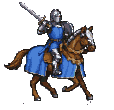
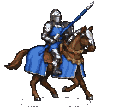
fix(battle): keep Knight attacks on their lance
Play the real horse gait and lance poses with one impact moment. Keep opponents outside the horse on return blows, retain gentle effects and Auto, and leave combat outcomes and saves unchanged.

Copilot-Session: 379f362c-03f1-437f-a3ee-fb0a8ab1f4c0

diff --git a/src/game/battle.ts b/src/game/battle.ts
@@ -12,6 +12,7 @@ import { BattleScreen, BUTTONS, FIRE_FALL, FLOAT_LIFE, FLOAT_RISE, hexAt, hexCen
 import { CUE_PING, cueBounce, FLASH_GAP, FLASH_TIME, FRAME, holdFrames, kickLeft, kickOf, POP_LIFE, ROLL, TOPPLE_TIME, toppleAngle, victoryHop, volleyOf, type Blow } from '../render/juice';
 import { hash } from '../render/noise';
 import { animLength, bodyHeight, hitTime, STAND, type AnimName } from '../render/battleSprites';
+import { paintedAnimation } from '../render/mapArt';
 import { cursorIcon, type CursorKind, type Heading } from '../render/cursors';
 import { ART, type Missile } from '../render/units';
 import { MAP_VIEW } from '../render/frame';
@@ -431,18 +432,18 @@ export class BattleController implements Screen {
   }
 
   /**
-   * What a blow or a shot sounds like as it lands: the attacker's weapon (a knight's charge is his
-   * lance), or the shot hitting home; what it lands on, flesh or the target's steel (#257); and its
+   * What a blow or a shot sounds like as it lands: the attacker's weapon, or the shot hitting
+   * home; what it lands on, flesh or the target's steel (#257); and its
    * cry, if it's hurt and still standing (one that falls gives its death cry as it goes).
    */
-  private landSound(e: Extract<BattleEvent, { type: 'hit' }>, missile: Missile | null, dies: boolean, x: number) {
+  private landSound(e: Extract<BattleEvent, { type: 'hit' }>, missile: Missile | null, dies: boolean, x: number, prepared = false) {
     const pan = this.panAt(x);
     const attacker = fighterById(this.battle, e.attacker);
     const target = TROOP_SOUNDS[fighterById(this.battle, e.target).troop];
     const blow = e.charge && ART[attacker.troop].charge ? 'lance' : TROOP_SOUNDS[attacker.troop].blow;
     if (missile) play(`land:${missile}`, pan);
-    else play(`blow:${blow}`, pan);
-    const lands = missile ? 0 : CONTACT;
+    else if (!prepared) play(`blow:${blow}`, pan);
+    const lands = missile || prepared ? 0 : CONTACT;
     // Weight under the blow, as heavy as what it did (#190).
     play(e.charge || dies ? 'thump:huge' : e.killed ? 'thump:heavy' : 'thump:light', pan, lands);
     const hit = missile ? SHOT_HITS[missile] : BLOW_HITS[blow];
@@ -666,14 +667,21 @@ export class BattleController implements Screen {
     const [ux, uy] = [(tx - ax) / len, (ty - ay) / len];
     const art = ART[attacker.troop];
     const anim = e.ranged ? 'ranged' : e.charge && art.charge ? 'charge' : 'melee';
-    const hit = hitTime(attacker.troop, anim);
-    const total = Math.max(animLength(attacker.troop, anim), hit + 1);
+    const knight = attacker.troop === 'knights';
+    const mounted = knight || target.troop === 'knights';
+    const painted = knight && !e.ranged && !!paintedAnimation(attacker.troop, 'battle', anim);
+    const contact = hitTime(attacker.troop, anim);
+    const soundLead = !e.ranged && mounted ? CONTACT / MS * this.pace * (this.auto ? 2.5 : 1) : 0;
+    // The charge's opening gait has already played on the approach. Finish the last stride into contact.
+    const begins = painted && e.charge ? Math.max(0, contact - Math.max(100, soundLead)) : 0;
+    const hit = contact - begins;
+    const total = Math.max(animLength(attacker.troop, anim) - begins, hit + 1);
     const after = Math.max(300, total - hit);
     // Lunge in: still at first, then hard to about half way at the blow, then back to its hex.
-    const reach = e.ranged ? 0 : Math.min(30, len * 0.45);
+    const reach = e.ranged || mounted ? 0 : Math.min(30, len * 0.45);
     const lunge = (ms: number) => (ms < hit ? reach * Math.max(0, (ms - hit * 0.4) / (hit * 0.6)) ** 2 : reach * Math.max(0, 1 - (ms - hit) / after));
     const swing = (ms: number) => {
-      v.poses.set(e.attacker, { anim, ms });
+      v.poses.set(e.attacker, { anim, ms: begins + ms });
       v.offsets.set(e.attacker, [ux * lunge(ms), uy * lunge(ms)]);
     };
     const flinch = (): AnimName => (e.ranged ? 'defendRanged' : 'defend');
@@ -688,6 +696,8 @@ export class BattleController implements Screen {
     // A company of archers or crossbowmen looses a volley, not one arrow (#190).
     const extra = missile === 'arrow' || missile === 'quarrel' ? volleyOf(attacker.count, isLeader(attacker)) - 1 : 0;
     const release = missile ? Math.max(0, hit - 150) : hit;
+    const leading = Math.min(release, soundLead);
+    const prepare = release - leading;
     // The ribbon names the blow as it starts, and says what it did when it lands.
     const blow = `${this.fighterName(e.attacker)} ${this.verb(e.attacker, e.ranged ? 'shoot' : e.retaliation ? 'strike back at' : e.charge ? 'charge' : 'hit')} ${this.objectName(e.target)}`;
     if (e.lucky) {
@@ -706,7 +716,7 @@ export class BattleController implements Screen {
         },
       });
     }
-    this.step(release * MS, {
+    this.step(prepare * MS, {
       start: () => {
         turn();
         v.log = `${blow}...`;
@@ -714,9 +724,13 @@ export class BattleController implements Screen {
         if (!e.ranged) v.front.set(e.target, e.attacker);
       },
       tick: (t) => {
-        swing(t * release);
-        if (!missile && t * release >= hit - FLINCH_EARLY) v.poses.set(e.target, { anim: flinch(), ms: 0 });
+        swing(t * prepare);
+        if (!missile && !mounted && t * prepare >= hit - FLINCH_EARLY) v.poses.set(e.target, { anim: flinch(), ms: 0 });
       },
+    });
+    if (leading) this.step(leading * MS, {
+      start: () => play(`blow:${e.charge ? 'lance' : TROOP_SOUNDS[attacker.troop].blow}`, this.panAt(ax)),
+      tick: (t) => swing(prepare + t * leading),
     });
     if (missile) {
       // The release frame holds while the shot flies, however far.
@@ -736,11 +750,11 @@ export class BattleController implements Screen {
         end: () => v.shots.splice(v.shots.indexOf(shot), 1),
       });
     }
-    const reel = (e.ranged ? 4 : 8) * (e.charge ? 2.2 : 1);
     // The blow lands, and the field holds still on it for a moment (#190): the target a white shape
     // for a frame, then red, the field kicked the way the blow went, and the kill popping out of the badge.
     const landed: Blow = { killed: e.killed, charge: e.charge, lucky: e.lucky, wiped: dies };
     const gentle = isGentle();
+    const reel = mounted ? (gentle ? 1.5 : e.charge ? 5 : 3) : (e.ranged ? 4 : 8) * (e.charge ? 2.2 : 1);
     const hold = holdFrames(landed, gentle) * FRAME;
     // The white shape shows for a frame at least, even when Auto hurries the hold along.
     let ticks = 0;
@@ -749,12 +763,12 @@ export class BattleController implements Screen {
         v[gentle ? 'flashing' : 'whites'].add(e.target);
         v.poses.set(e.target, { anim: flinch(), ms: 0 });
         this.counted(e.target, left);
-        this.landSound(e, missile, dies, tx);
-        if (dies) this.deathCry(e.target, (missile ? 0 : CONTACT) + 0.06);
+        this.landSound(e, missile, dies, tx, leading > 0);
+        if (dies) this.deathCry(e.target, (missile || leading ? 0 : CONTACT) + 0.06);
         this.impact(e.target, landed, !e.ranged, [ux, uy]);
         if (e.charge) {
           this.float(e.attacker, 'Charge!', GOLD[6], from);
-          play('charge');
+          if (!knight) play('charge');
         }
         if (e.lucky) this.float(e.attacker, 'Lucky!', GOLD[5], from);
         if (e.backstab) this.float(e.attacker, 'Backstab!', GOLD[6], from);
@@ -855,13 +869,16 @@ export class BattleController implements Screen {
           const feet = `feet:${TROOP_SOUNDS[f.troop].feet}` as const;
           // A charge's run-up (#190): dust flies from the hooves on every hex of it.
           const charging = !back && events.some((n) => n.type === 'hit' && n.charge && n.attacker === e.fighter);
+          const gait = f.troop === 'knights' ? paintedAnimation(f.troop, 'battle', charging ? 'charge' : 'move') : null;
+          const cycle = gait ? (charging ? hitTime(f.troop, 'charge') : animLength(f.troop, 'move')) : 0;
           for (const [n, to] of path.entries()) {
             const a = n === 0 ? start : path[n - 1];
             // A hex a step for a stack; a leader gallops, however far his first and last stretches are.
-            const length = leader ? Math.max(0.06, Math.hypot(to[0] - a[0], to[1] - a[1]) / 640) : 0.12;
+            const length = gait ? cycle * MS / 2 : leader ? Math.max(0.06, Math.hypot(to[0] - a[0], to[1] - a[1]) / 640) : 0.12;
             this.step(length, {
               start: () => {
                 if (n === 0 && !back) v.log = `${this.fighterName(e.fighter)} ${this.verb(e.fighter, leader ? 'ride out' : 'advance')}...`;
+                if (n === 0 && charging && f.troop === 'knights') play('charge');
                 if (to[0] !== a[0]) v.facings.set(e.fighter, to[0] > a[0] ? 1 : -1);
                 play(feet, this.panAt(to[0]));
                 if (charging) this.burst('dust', [Math.round(a[0]), Math.round(a[1]) + 12], 0.45, { size: 30 });
@@ -869,7 +886,7 @@ export class BattleController implements Screen {
               tick: (t) => {
                 const hop = frames ? 0 : Math.sin(t * Math.PI) * 4;
                 v.positions.set(e.fighter, [a[0] + (to[0] - a[0]) * t, a[1] + (to[1] - a[1]) * t - hop]);
-                v.poses.set(e.fighter, frames ? { anim: 'move', ms: (n + t) * 120 } : { anim: 'stand', ms: 0 });
+                v.poses.set(e.fighter, gait ? { anim: charging ? 'charge' : 'move', ms: ((n + t) * cycle / 2) % cycle } : frames ? { anim: 'move', ms: (n + t) * 120 } : STAND);
               },
             });
           }

diff --git a/src/render/mapPieces.ts b/src/render/mapPieces.ts
@@ -193,7 +193,7 @@ export type FigureAnimation = {
   stride?: number;
   footfalls?: readonly number[];
 };
-export const FIGURE_ANIMATIONS: Record<string, Partial<Record<import('./battleSprites').AnimName, FigureAnimation>>> = {"knights": {"stand": {"frames": [{"name": "knights-stand-0", "ms": 100}], "feet": {"battle": [54, 101], "map": [33, 60]}}, "idle": {"frames": [{"name": "knights-idle-0", "ms": 100}], "feet": {"battle": [54, 101], "map": [33, 60]}}, "move": {"frames": [{"name": "knights-move-0", "ms": 90}, {"name": "knights-move-1", "ms": 90}, {"name": "knights-move-2", "ms": 90}, {"name": "knights-move-3", "ms": 90}], "feet": {"battle": [54, 101], "map": [33, 60]}, "stride": 64, "footfalls": [0, 180]}, "melee": {"frames": [{"name": "knights-melee-0", "ms": 160}, {"name": "knights-melee-1", "ms": 110}, {"name": "knights-melee-2", "ms": 100}, {"name": "knights-melee-3", "ms": 200}], "feet": {"battle": [54, 101]}, "hit": 160}, "charge": {"frames": [{"name": "knights-charge-0", "ms": 80}, {"name": "knights-charge-1", "ms": 80}, {"name": "knights-charge-2", "ms": 80}, {"name": "knights-charge-3", "ms": 80}, {"name": "knights-charge-4", "ms": 100}, {"name": "knights-charge-5", "ms": 220}], "feet": {"battle": [54, 101]}, "hit": 320, "footfalls": [0, 160]}}, "heroWizard": {"move": {"frames": [{"name": "heroWizard-move-0", "ms": 100}, {"name": "heroWizard-move-1", "ms": 100}, {"name": "heroWizard-move-2", "ms": 100}, {"name": "heroWizard-move-3", "ms": 100}, {"name": "heroWizard-move-4", "ms": 100}, {"name": "heroWizard-move-5", "ms": 100}], "feet": {"map": [15, 49]}, "stride": 48, "footfalls": [100, 400]}}};
+export const FIGURE_ANIMATIONS: Record<string, Partial<Record<import('./battleSprites').AnimName, FigureAnimation>>> = {"knights": {"stand": {"frames": [{"name": "knights-stand-0", "ms": 100}], "feet": {"battle": [54, 101], "map": [33, 60]}}, "idle": {"frames": [{"name": "knights-idle-0", "ms": 100}], "feet": {"battle": [54, 101], "map": [33, 60]}}, "move": {"frames": [{"name": "knights-move-0", "ms": 90}, {"name": "knights-move-1", "ms": 90}, {"name": "knights-move-2", "ms": 90}, {"name": "knights-move-3", "ms": 90}], "feet": {"battle": [54, 101], "map": [33, 60]}, "stride": 64, "footfalls": [0, 180]}, "melee": {"frames": [{"name": "knights-melee-0", "ms": 140}, {"name": "knights-melee-1", "ms": 100}, {"name": "knights-melee-2", "ms": 100}, {"name": "knights-melee-3", "ms": 200}], "feet": {"battle": [54, 101]}, "hit": 240}, "charge": {"frames": [{"name": "knights-charge-0", "ms": 80}, {"name": "knights-charge-1", "ms": 80}, {"name": "knights-charge-2", "ms": 80}, {"name": "knights-charge-3", "ms": 80}, {"name": "knights-charge-4", "ms": 100}, {"name": "knights-charge-5", "ms": 220}], "feet": {"battle": [54, 101]}, "hit": 320, "footfalls": [0, 160]}}, "heroWizard": {"move": {"frames": [{"name": "heroWizard-move-0", "ms": 100}, {"name": "heroWizard-move-1", "ms": 100}, {"name": "heroWizard-move-2", "ms": 100}, {"name": "heroWizard-move-3", "ms": 100}, {"name": "heroWizard-move-4", "ms": 100}, {"name": "heroWizard-move-5", "ms": 100}], "feet": {"map": [15, 49]}, "stride": 48, "footfalls": [100, 400]}}};
 /** The payday feast's pieces (#191), in public/assets/feast/: Aldric as each background, a figure for each troop that has one, and the camp's things. */
 export const FEAST_PIECES = ["heroKnight", "heroWizard", "heroRanger", "heroCourtier", "knights", "archers", "peasants", "swordsmen", "crossbowmen", "wolves", "boars", "bears", "goblins", "trolls", "poachers", "bandits", "huntsmen", "fire", "spit", "tent", "horseWhite", "horseBrown", "barrel", "chest", "food", "banner"] as const;
 export type FeastPieceName = (typeof FEAST_PIECES)[number];

diff --git a/src/render/battleScreen.ts b/src/render/battleScreen.ts
@@ -16,14 +16,16 @@ import { bayer, fbm, hash, noise, shade } from './noise';
 import { CUE_PING, FRAME, rolled } from './juice';
 import { rotateAbout } from './rotate';
 import { drawPops, type Pop } from './pops';
-import { ground, piece } from './mapArt';
+import { ground, paintedAnimation, piece } from './mapArt';
 import type { PieceName } from './mapPieces';
 import { BLUE, CYCLE_BOG, DANGER_LUT, EARTH, GOLD, GRASS, INK, LEAF, LIGHT_LUT, NEUTRAL, PARCHMENT, PLUM, RED, REED, SHADOW_LUT, STONE, WOOD } from './palette';
-import { boulder, mirror, oak, pine, willow } from './sprites';
+import { boulder, mirror, oak, pine, shadowOval, willow } from './sprites';
 import { bigLettering, drawText, lettered, textMask } from './text';
 
 /** The King's blue with his gold star, over Aldric's side. */
 const ROYAL: Standard = { cloth: [BLUE[1], BLUE[2], BLUE[3], BLUE[4]], emblem: 'star' };
+const KNIGHT_SHADOW = new Bitmap(72, 12);
+shadowOval(KNIGHT_SHADOW, 36, 6, 36, 6);
 
 /** Aldric, or a villain: one of a kind, a name rather than a number. */
 const oneOfAKind = (f: Fighter) => TROOPS[f.troop].name === TROOPS[f.troop].one;
@@ -553,10 +555,12 @@ export class BattleScreen {
         continue;
       }
       const pose = view.poses.get(f.id) ?? (view.positions.has(f.id) ? STAND : fidget(f.troop, f.id, view.time));
+      const painted = paintedAnimation(f.troop, 'battle', pose.anim);
       const figure = troopFigure(f.troop, f.side === 'player' ? 'blue' : 'red', facing, pose, 'battle');
+      if (f.troop === 'knights' && painted) blit(screen, KNIGHT_SHADOW, Math.round(px + ox - 36), Math.round(py + oy + 6), MAP_VIEW);
       const sprite = view.whites.has(f.id) ? whiteSprite(figure.sprite) : view.flashing.has(f.id) ? hurtSprite(figure.sprite) : figure.sprite;
       // Standing about, everyone breathes: a pixel up and down, each stack in its own time.
-      const breath = pose.anim === 'stand' && !view.positions.has(f.id) && !view.offsets.has(f.id) && Math.sin(view.time * 2.4 + f.id * 1.9) > 0.35 ? 1 : 0;
+      const breath = !painted && pose.anim === 'stand' && !view.positions.has(f.id) && !view.offsets.has(f.id) && Math.sin(view.time * 2.4 + f.id * 1.9) > 0.35 ? 1 : 0;
       const lift = view.positions.has(f.id) ? 0 : (view.lifts.get(f.id) ?? 0);
       const [x, y] = [Math.round(px + ox + figure.x), Math.round(py + oy + 12 + figure.y) - breath - lift];
       if (view.lit.has(f.id)) this.glow(figure.sprite, x, y, view.lit.get(f.id)!, view.time);

diff --git a/test/knights.test.ts b/test/knights.test.ts
@@ -2,6 +2,8 @@ import { readFileSync } from 'node:fs';
 import { beforeAll, describe, expect, it, vi } from 'vitest';
 import { animLength, hitTime, troopFigure } from '../src/render/battleSprites';
 import { loadMapArt, paintedAnimation } from '../src/render/mapArt';
+import { TROOP_SOUNDS } from '../src/audio/blows';
+import { ART } from '../src/render/units';
 
 describe('the Knights painted gait and attacks', () => {
   beforeAll(() => loadMapArt(async (file) => new Uint8Array(readFileSync(`public/assets/${file.includes('/') ? file : `map/${file}`}`))));
@@ -14,13 +16,18 @@ describe('the Knights painted gait and attacks', () => {
     expect(paintedAnimation('knights', 'battle', 'move')?.footfalls).toEqual([0, 180]);
   });
 
-  it('puts sword contact on its painted contact pose and holds the recovery', () => {
-    const frames = [0, 160, 270, 370].map((ms) => troopFigure('knights', 'blue', 1, { anim: 'melee', ms }, 'battle'));
+  it('puts the short lance thrust on its contact pose and holds the recovery', () => {
+    const frames = [0, 140, 240, 340].map((ms) => troopFigure('knights', 'blue', 1, { anim: 'melee', ms }, 'battle'));
     expect(new Set(frames.map((frame) => frame.sprite.data.join(','))).size).toBe(4);
     expect(new Set(frames.map((frame) => `${frame.x},${frame.y}`)).size).toBe(1);
-    expect(hitTime('knights', 'melee')).toBe(160);
-    expect(animLength('knights', 'melee')).toBe(570);
+    expect(hitTime('knights', 'melee')).toBe(240);
+    expect(animLength('knights', 'melee')).toBe(540);
     expect(troopFigure('knights', 'blue', 1, { anim: 'melee', ms: 2000 }, 'battle').sprite).toBe(frames[3].sprite);
+  });
+
+  it('keeps the lance sound and lance fallback for ordinary melee too', () => {
+    expect(TROOP_SOUNDS.knights.blow).toBe('lance');
+    expect(ART.knights.melee).toEqual(ART.knights.charge);
   });
 
   it('has four couched-lance approach poses before distinct contact and recovery', () => {

diff --git a/src/render/units.ts b/src/render/units.ts
@@ -23,7 +23,7 @@ export type UnitArt = {
   /** Looped while it walks or rides from hex to hex. */
   move?: Frame[];
   melee: Attack;
-  /** The knights' lance, for a charge. */
+  /** A separate charge sequence, where the troop has one. */
   charge?: Attack;
   /** Aldric raising his hands (or his sabre) as he casts a spell. */
   cast?: Frame[];
@@ -93,7 +93,7 @@ const TROOP_ART: Record<Exclude<TroopId, HeroId>, UnitArt> = {
     stand: KNIGHT + 'knight.png',
     idle: frames(KNIGHT, 'knight-breeze-[1~4,2,5].png', '200,300*3,200*2'),
     move: frames(KNIGHT, 'knight-se-run[1~8].png', 70),
-    melee: attack(400, frames(KNIGHT, 'knight-se-slash[1~12].png', '100*3,70*9')),
+    melee: attack(400, frames(KNIGHT, 'knight-se-attack[1~12].png', '100*3,70*9')),
     charge: attack(400, frames(KNIGHT, 'knight-se-attack[1~12].png', '100*3,70*9')),
     defend: KNIGHT + 'knight-se-defend2.png',
     death: frames(KNIGHT, 'knight-se-die[1~5].png', 100),

diff --git a/src/audio/blows.ts b/src/audio/blows.ts
@@ -24,7 +24,7 @@ export type TroopSounds = { blow: BlowKind; cry: CryKind; feet: FeetKind; armour
 export const TROOP_SOUNDS: Record<TroopId, TroopSounds> = {
   peasants: { blow: 'fork', cry: 'man', feet: 'boots' },
   archers: { blow: 'blade', cry: 'man', feet: 'boots' },
-  knights: { blow: 'blade', cry: 'man', feet: 'hooves', armour: true },
+  knights: { blow: 'lance', cry: 'man', feet: 'hooves', armour: true },
   swordsmen: { blow: 'blade', cry: 'man', feet: 'boots', armour: true },
   crossbowmen: { blow: 'blade', cry: 'man', feet: 'boots', armour: true },
   wolves: { blow: 'bite', cry: 'wolf', feet: 'paws' },

diff --git a/scripts/mapart.py b/scripts/mapart.py
@@ -185,14 +185,14 @@ FIGURE_ANIMATIONS = {
             'stride': 64, 'footfalls': [0, 180],
         },
         'melee': {
-            'sheet': 'knights-melee-v2', 'scale': 0.86, 'sizes': ['battle'],
+            'sheet': 'knights-lance-melee', 'scale': 0.86, 'sizes': ['battle'],
             'frames': [
-                ((0, 0, 133, 128), (63, 117), 160),
-                ((0, 128, 133, 256), (63, 245), 110),
+                ((0, 0, 133, 128), (63, 117), 140),
                 ((128, 0, 256, 128), (191, 117), 100),
+                ((0, 128, 133, 256), (63, 245), 100),
                 ((128, 128, 256, 256), (191, 245), 200),
             ],
-            'hit': 160,
+            'hit': 240,
         },
         'charge': {
             'sheet': 'knights-charge-sequence', 'scale': 0.86, 'sizes': ['battle'],

diff --git a/public/assets/CREDITS.md b/public/assets/CREDITS.md
@@ -31,12 +31,12 @@ of $0.18 each, $0.36 in all, in `art/map/jobs/wizard-walk.costs.json`. `art/map/
 is a crop of our own `units-d.png`, not another generation. The poses use the game's existing palette
 and licence, at one fixed body scale with explicit foot anchors.
 
-The Knights' gait, sword attacks and lance charge (#283) were painted with Retro Diffusion on
+The Knights' gait, short lance thrusts and lance charge (#283) were painted with Retro Diffusion on
 12 October 2026, with their existing chestnut horse, blue cloth and steel armour as references.
-`knights-gait.png`, `knights-melee-v2.png`, `knights-charge-edit.png` and `knights-charge.png`
+`knights-gait.png`, `knights-lance-melee.png`, `knights-charge-edit.png` and `knights-charge.png`
 supply the selected poses. `knights-charge-sequence.png` packs the selected approach, contact
-and recovery cells without repainting them. All eight requests and inspected attempts are
-retained in `art/map/jobs/` and `art/map/sheets/`, with their actual spend of $1.44 and critiques
+and recovery cells without repainting them. All nine requests and inspected attempts are
+retained in `art/map/jobs/` and `art/map/sheets/`, with their actual spend of $1.62 and critiques
 in `art/map/knights-review.json`. `knights-lance-reference.png` is a crop of our own first charge
 sheet. The frames keep one body scale and explicit foot anchors, and use the same palette and licence.
 
